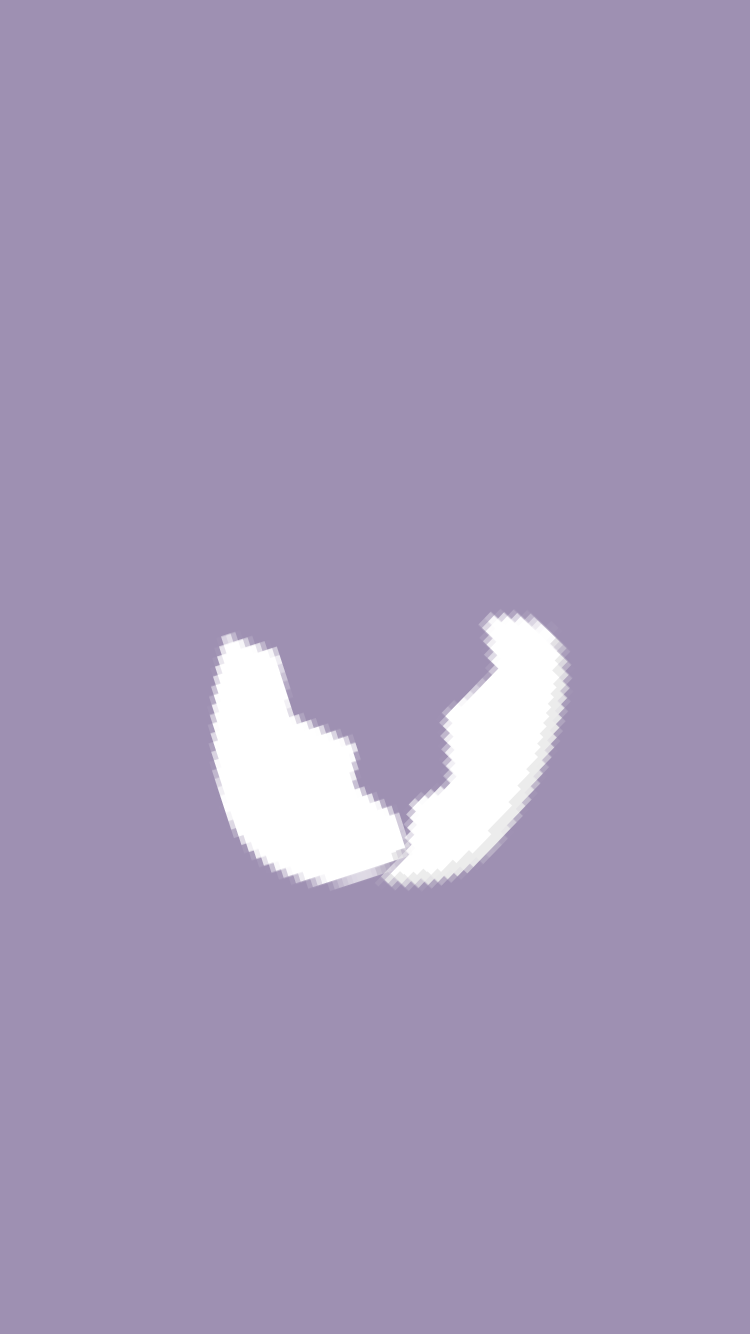
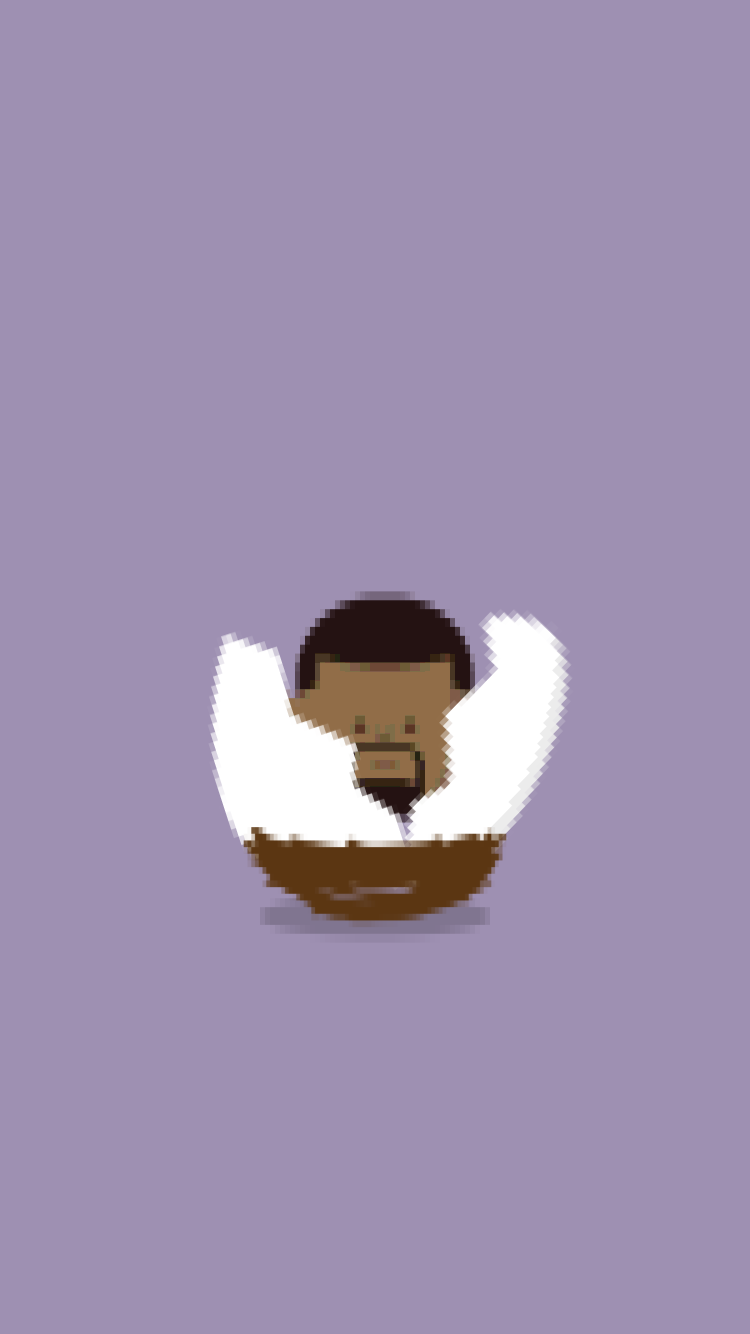
adds demo params & pngs

Changed region(s): [[0.3067, 0.4303, 0.6747, 0.7069]]

diff --git a/js/demoManager.js b/js/demoManager.js
@@ -1,15 +1,60 @@
 $( document ).ready(function() {
+	var queryString = function () {
+	  // This function is anonymous, is executed immediately and 
+	  // the return value is assigned to QueryString!
+	  var query_string = {};
+	  var query = window.location.search.substring(1);
+	  var vars = query.split("&");
+	  for (var i=0;i<vars.length;i++) {
+	    var pair = vars[i].split("=");
+	        // If first entry with this name
+	    if (typeof query_string[pair[0]] === "undefined") {
+	      query_string[pair[0]] = decodeURIComponent(pair[1]);
+	        // If second entry with this name
+	    } else if (typeof query_string[pair[0]] === "string") {
+	      var arr = [ query_string[pair[0]],decodeURIComponent(pair[1]) ];
+	      query_string[pair[0]] = arr;
+	        // If third or later entry with this name
+	    } else {
+	      query_string[pair[0]].push(decodeURIComponent(pair[1]));
+	    }
+	  } 
+	  return query_string;
+	}();
+	debugger;
 	var randomTweet = function(){
   	  var randSeedNum = Math.floor(Math.random() * (randomtweets.length - 0 + 1)) + 0;
 	  	$( ".speechbubble" ).html(randomtweets[randSeedNum]);
   };
+  var endGame = function() {
+			$("#startscreens").show();
+	  	$("#startscreens").css('display', 'block');
+	  	
+			$("#start1").hide();
+			$("#start2").hide();
+			$("#start3").hide();
+			$("#start4").hide();
+
+			// finalframe
+			$("#finalframe").removeClass('startoff');
+			$("#finalframe").css('display', 'block');
+			$("#finalframe").show();  
+	};
   
 	var randomtweets = ['I feel we are so stuck in the booth Wow this is the God.',
                 'Be real… Don’t try to use the debt tried to use me for anything till Monday.',
                 'I feel the Grammy awarding system is designed for YEEZY Season 1.',
                 'I feel we are so stuck in the booth Wow this is the God.',
                 'This is the most powerful messenger of the life.',
-                'and I think the Grammys culturally relevant again.'];
+                'and I think the Grammys culturally relevant again.',
+                'you maybe talented, but you\'re not kanye west',
+                'Sometimes I get emotional over fonts',
+                'My favorite unit of measurement is \'a shitload\'',
+                'Have you ever thought you were in love with someone but then realized you were just staring in the mirror for 20 minutes?',
+                'I always misspell genius SMH! The irony!',
+                'Dear Santa Claus, tell me what gift would you like this year.'
+                ];
+                // I am ready to get out of my own way. The ego is overdone... it's like hoddies
 		$("#startscreens").removeClass('startoff');
 		$("#start1").removeClass('startoff');
 		$("#start2").removeClass('startoff');
@@ -48,38 +93,36 @@ $( document ).ready(function() {
 
 	  $( ".scriptButton1" ).click(function() {
 	  	// shrink head
-	  	shrinkHead();
-	  	setTimeout(function(){
-	  		shrinkHead();
-	  	}, 1000);
+	  	if (queryString.demo) {
+		  	shrinkHead();
+		  	setTimeout(function(){
+		  		shrinkHead();
+		  	}, 1000);
+	  	}
 
 	  });
 	  $( ".scriptButton2" ).click(function() {
 	  	// hate
-	  	var interval;
-	  	interval = setInterval(makehater, 1500);
-	  	setTimeout(function(){
-	  		clearInterval(interval)
-	  	}, 10000);
-
+	  	if (queryString.demo) {
+		  	var interval;
+		  	interval = setInterval(makehater, 1500);
+		  	setTimeout(function(){
+		  		clearInterval(interval)
+		  	}, 10000);
+	  	}
 	  });
 	  $( ".scriptButton3" ).click(function() {
-  	  var seednum = Math.floor(Math.random() * (randomtweets.length - 0 + 1)) + 0;
-	  	$( ".speechbubble" ).html(randomtweets[seednum]);
+	  	// random tweet
+	  	if (queryString.demo) {
+	  	  var seednum = Math.floor(Math.random() * (randomtweets.length - 0 + 1)) + 0;
+		  	$( ".speechbubble" ).html(randomtweets[seednum]);
+	  	}
 	  });
 	  $( ".scriptButton4" ).click(function() {
 	  	// end
-	  	$("#startscreens").show();
-	  	$("#startscreens").css('display', 'block');
-	  	
-			$("#start1").hide();
-			$("#start2").hide();
-			$("#start3").hide();
-			$("#start4").hide();
-			// finalframe
-			$("#finalframe").removeClass('startoff');
-			$("#finalframe").css('display', 'block');
-			$("#finalframe").show();
+	  	if (queryString.demo) {
+		  	endGame();
+	  	}
 	  });
 
 	  	var randomTweetInterval;

diff --git a/css/style.css b/css/style.css
@@ -240,6 +240,8 @@ body {
   left: 37px;
   padding: 5px;
   text-align: center;
+  line-height:18px;
+  font-size: 16px;
   background-color: #fff;
   border: 2px solid #666;
   -webkit-border-radius: 20px;
@@ -256,7 +258,7 @@ body {
   width: 0;
   height: 0;
   left: 150px;
-  top: 85px;
+  top: 93px;
   border: 15px solid;
   border-color: #fff transparent transparent #fff;
 }
@@ -264,6 +266,8 @@ body {
 .bubbleoff{
 	display:none;
 	}
+
+
 	
 #allthehaters {
   display: block;
@@ -410,29 +414,40 @@ body {
 	display:block;
 	}
 #overlaytext{
-	width:325px;
+	width:285px;
 	display:block;
 	position:absolute;
-	width: 325px;
+	width: 285px;
 	height: 615px;
 	font-size:18px;
+	
+	line-height:30px;
 	pointer-events:none;
+	padding: 40px 20px;
 	}			
 	
 #close{
 	 width: 300px;
-    height: 40px;
+    height: 60px;
     position: absolute;
     display: block;
-    top: 450px;
+    top: 515px;
     left: 5px;
 	border:1px solid #fff;
 	border-radius: 10px;
 	background-color: #5A3382;
 	font-size:18px;
 	padding:10px 5px;
+	line-height:30px;
 	}
-	
+
+img.albumart{
+	position:absolute;
+	display:block;
+	top: 70px;
+	left: 0px;
+	}
+
 .modalimage{
 	position:absolute;
 	display:block;
@@ -442,7 +457,7 @@ body {
 	
 	
 #startscreens{
-	display:block;
+	display:none;
 	position:absolute;
 	width:100%;
 	height:100%;
@@ -471,17 +486,21 @@ body {
 	position:absolute;
 	top:0px;
 	left:0px;
-	}					
+	}
+#finalframe{
+	display:block;
+	position:absolute;
+	top:0px;
+	left:0px;
+	}						
 .startoff{
 	display:none;
 	}	
-	
-
-#fixed-div2 {
+	#fixed-div2 {
     position: fixed;
     bottom: 1em;
     left: 1em;
-    background-color: black;
+    background-color: #5A3382;
     z-index: 5;
     width: 300px;
     height: 300px;
@@ -491,7 +510,7 @@ body {
     position: fixed;
     top: 1em;
     left: 1em;
-    background-color: black;
+    background-color: #5A3382;
     z-index: 5;
     width: 300px;
     height: 300px;
@@ -501,7 +520,7 @@ body {
     position: fixed;
     top: 1em;
     right: 1em;
-    background-color: black;
+    background-color: #5A3382;
     z-index: 5;
     width: 300px;
     height: 300px;
@@ -511,7 +530,7 @@ body {
     position: fixed;
     bottom: 1em;
     right: 1em;
-    background-color: black;
+    background-color: #5A3382;
     z-index: 5;
     width: 300px;
     height: 300px;

diff --git a/js/kanye-nest.js b/js/kanye-nest.js
@@ -156,6 +156,7 @@ function evolveKanye(){
 
 function growHead(){
     //Grow the head 
+        // debugger;
     $('#kanyehead').children().not('.headoff').children().not('.headoff').each(function(){
         $(this).addClass('headoff');
         $(this).next().removeClass('headoff');
